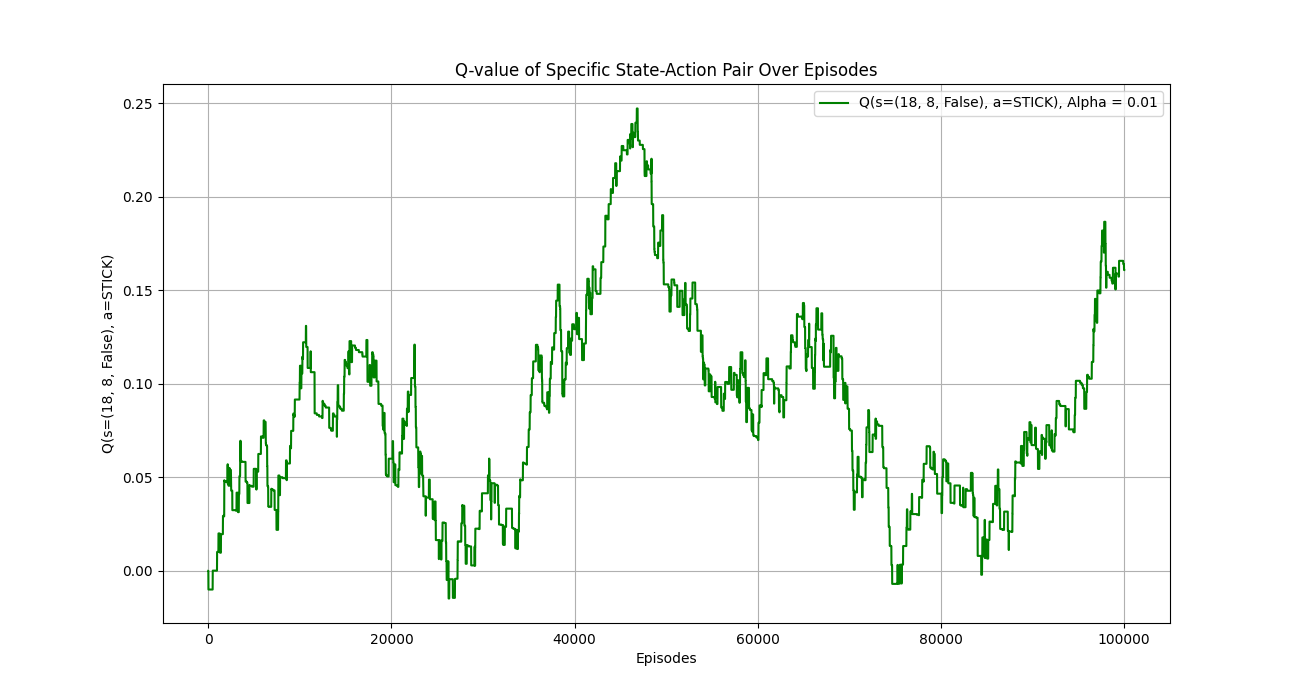
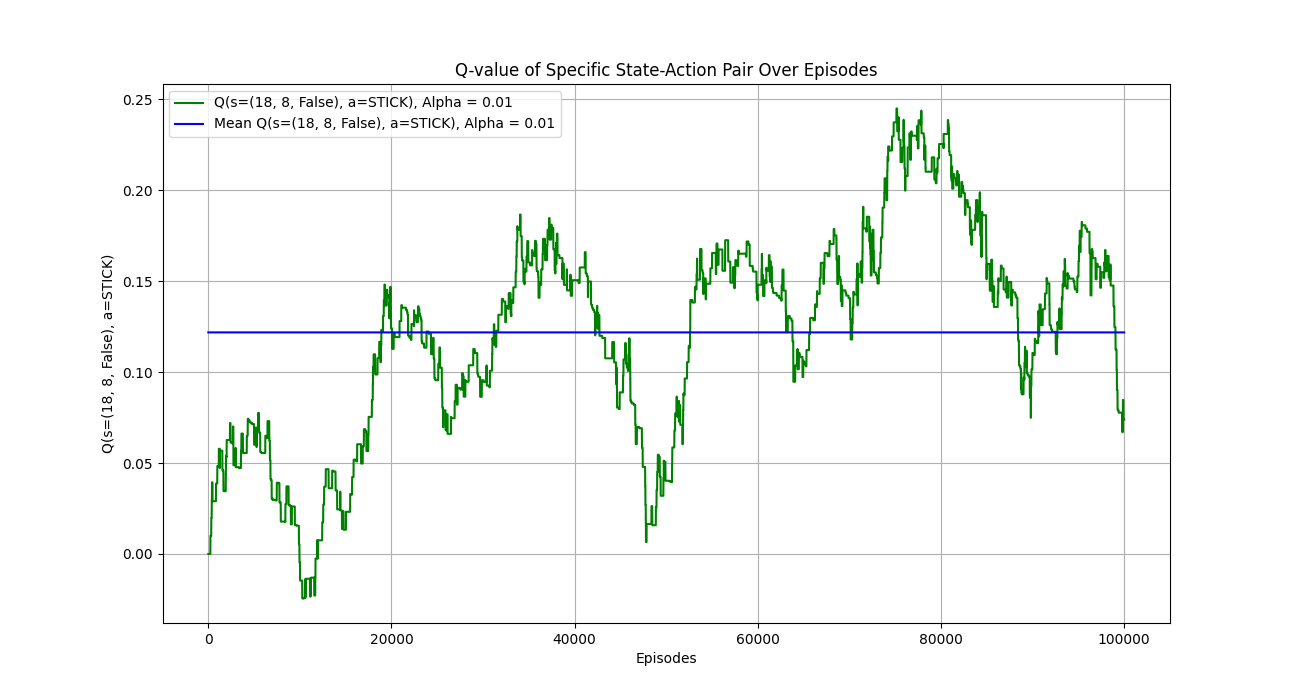
Finished code

diff --git a/Assignments/Assignment3/Code/QBlackjack.py b/Assignments/Assignment3/Code/QBlackjack.py
@@ -101,9 +101,10 @@ def train_and_test(alpha, episodes=100000):
     # Plotting the Q-value for the specific state-action pair over episodes
     plt.figure(figsize=(13, 7))
     plt.plot(range(1, episodes + 1), specific_Q_values, label=f'Q(s=(18, 8, False), a=STICK), Alpha = {alpha}', color=graph_color)
+    plt.plot(range(1, episodes + 1), [np.mean(specific_Q_values)] * episodes, label=f'Mean Q(s=(18, 8, False), a=STICK), Alpha = {alpha}', color='b', linestyle='-')
     plt.title('Q-value of Specific State-Action Pair Over Episodes')
     plt.xlabel('Episodes')
-    plt.ylabel('Q(s=(18, 8, False), a=STICK)')
+    plt.ylabel(f'Q(s=' + str(specific_state) + f', a=' + ('STICK' if specific_action == ACTION_STICK else 'HIT') + ')')
     plt.legend()
     plt.grid(True)
     plt.savefig(f'Assignments/Assignment3/Report/Q_Blackjack_Alpha_{alpha}.png')
@@ -112,6 +113,7 @@ def train_and_test(alpha, episodes=100000):
     # Plotting win rates after test episodes as before
     plt.figure(figsize=(13, 7))
     plt.plot(range(L, episodes + 1, L), test_results, label=f'Test Win Rate, Alpha = {alpha}', color=graph_color)
+    plt.plot(range(L, episodes + 1, L), [np.mean(test_results)] * len(test_results), label=f'Mean Test Win Rate, Alpha = {alpha}', color='b', linestyle='-')
     plt.title('Test Win Rate Over Episodes')
     plt.xlabel('Episodes')
     plt.ylabel('Win Rate')
